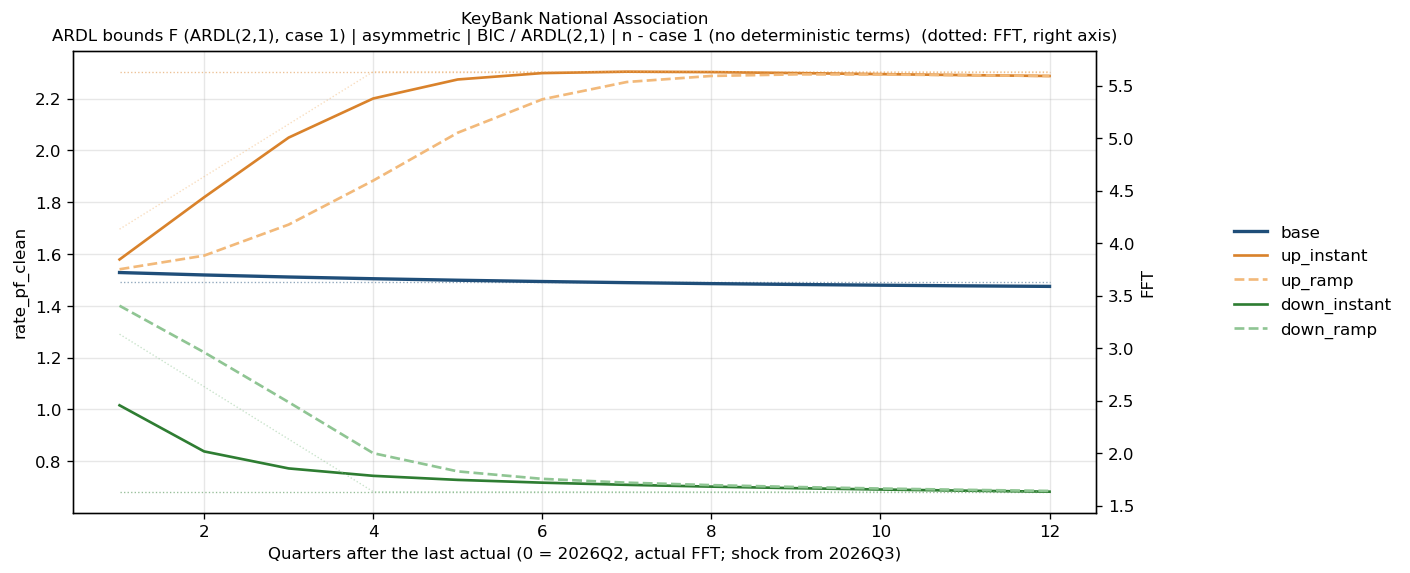
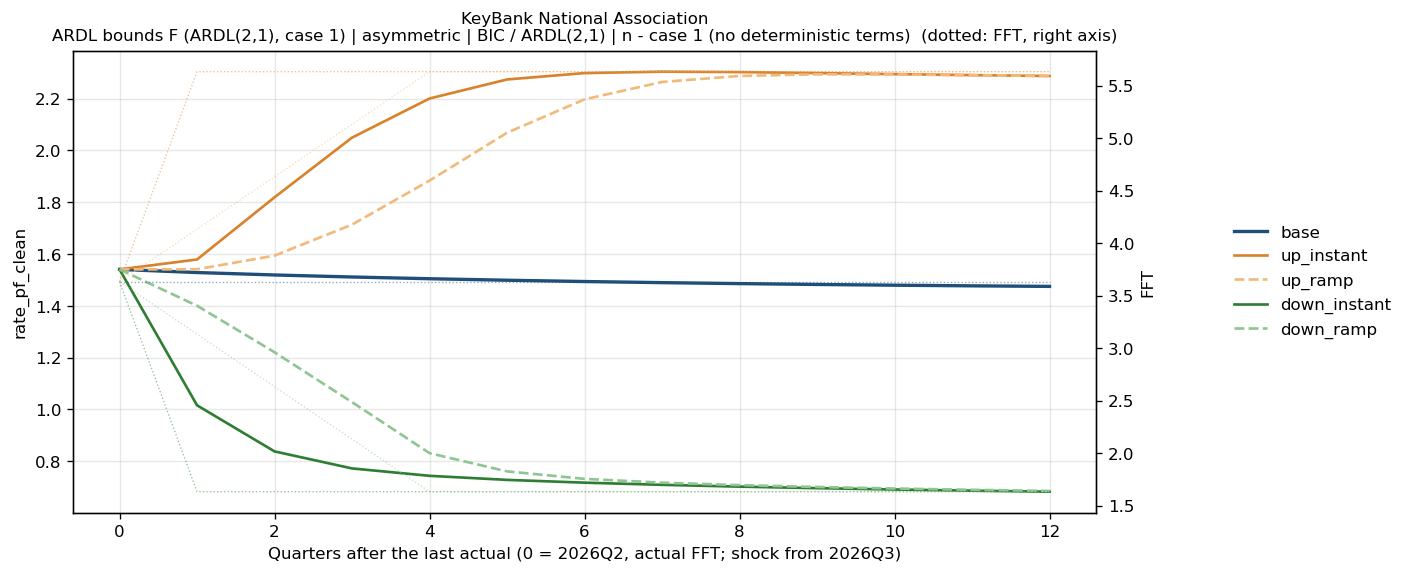
Scenario charts: include k=0 anchor, panel shows signed rate change vs base

diff --git a/projection/run_scenarios.py b/projection/run_scenarios.py
@@ -73,6 +73,11 @@ def run(banks, select):
                 ["bank_name", "model", "scenario", "quarter", "h", "FFT", "rate_pf_clean", "long_run_equilibrium"]]
                 .rename(columns={"bank_name": "bank", "rate_pf_clean": "rate"})
                 .assign(k=lambda d: d["h"]))  # quarters after the last actual (shock starts at h = 1)
+            # k = 0 anchor: last actual rate and last actual FFT (same for every scenario)
+            anchor = pd.DataFrame([{"bank": bank, "model": model, "scenario": name, "quarter": str(p.T),
+                                    "h": 0, "FFT": float(p.history[p.x].iloc[-1]),
+                                    "rate": float(p.history[p.y].iloc[-1]), "long_run_equilibrium": np.nan, "k": 0}])
+            frames[-1] = pd.concat([anchor, frames[-1]], ignore_index=True)
     return pd.concat(frames, ignore_index=True)
 
 
@@ -124,13 +129,14 @@ def charts(proj, pt):
         for bank in banks:
             g = proj[(proj.bank == bank) & (proj.scenario == sc)].set_index("k")["rate"]
             b = proj[(proj.bank == bank) & (proj.scenario == "base")].set_index("k")["rate"]
-            ax.plot(g.index, (g - b) / (SHOCK * SCENARIOS[sc][0]), label=bank, linewidth=1.5)
+            ax.plot(g.index, g - b, label=bank, linewidth=1.5)  # signed: falls under cuts, rises under hikes
         ax.set_title(sc.replace("_", " "), fontsize=11)
         ax.axvline(0, color="grey", linewidth=0.8, linestyle=":")
+        ax.axhline(0, color="grey", linewidth=0.8)
         ax.grid(True, alpha=0.3)
     fig.supxlabel(XLABEL, fontsize=10)
-    axes[0, 0].set_ylabel("cumulative pass-through")
-    axes[1, 0].set_ylabel("cumulative pass-through")
+    axes[0, 0].set_ylabel("rate change vs base (pp)")
+    axes[1, 0].set_ylabel("rate change vs base (pp)")
     axes[0, 1].legend(loc="center left", bbox_to_anchor=(1.02, 0), frameon=False, fontsize=9)
     fig.savefig(FIG_DIR / "all_banks_passthrough.png", dpi=120, bbox_inches="tight")
     plt.close(fig)

diff --git a/tools/verify_batch_checks_scenarios.py b/tools/verify_batch_checks_scenarios.py
@@ -35,6 +35,7 @@ def check_base_equals_flat():
     for bank, g in projections()[lambda d: d.scenario == "base"].groupby("bank"):
         p = pj.Projection.champion(bank, estimates, summary, source)
         ref = p.project(flat)["rate_pf_clean"].values
+        g = g[g.h >= 1]  # drop the k = 0 anchor
         worst = max(worst, float(abs(g["rate"].values[:len(ref)] - ref).max()))
     return "base == flat_8Q projection", worst < 1e-9, f"max abs diff {worst:.2e}"
 
